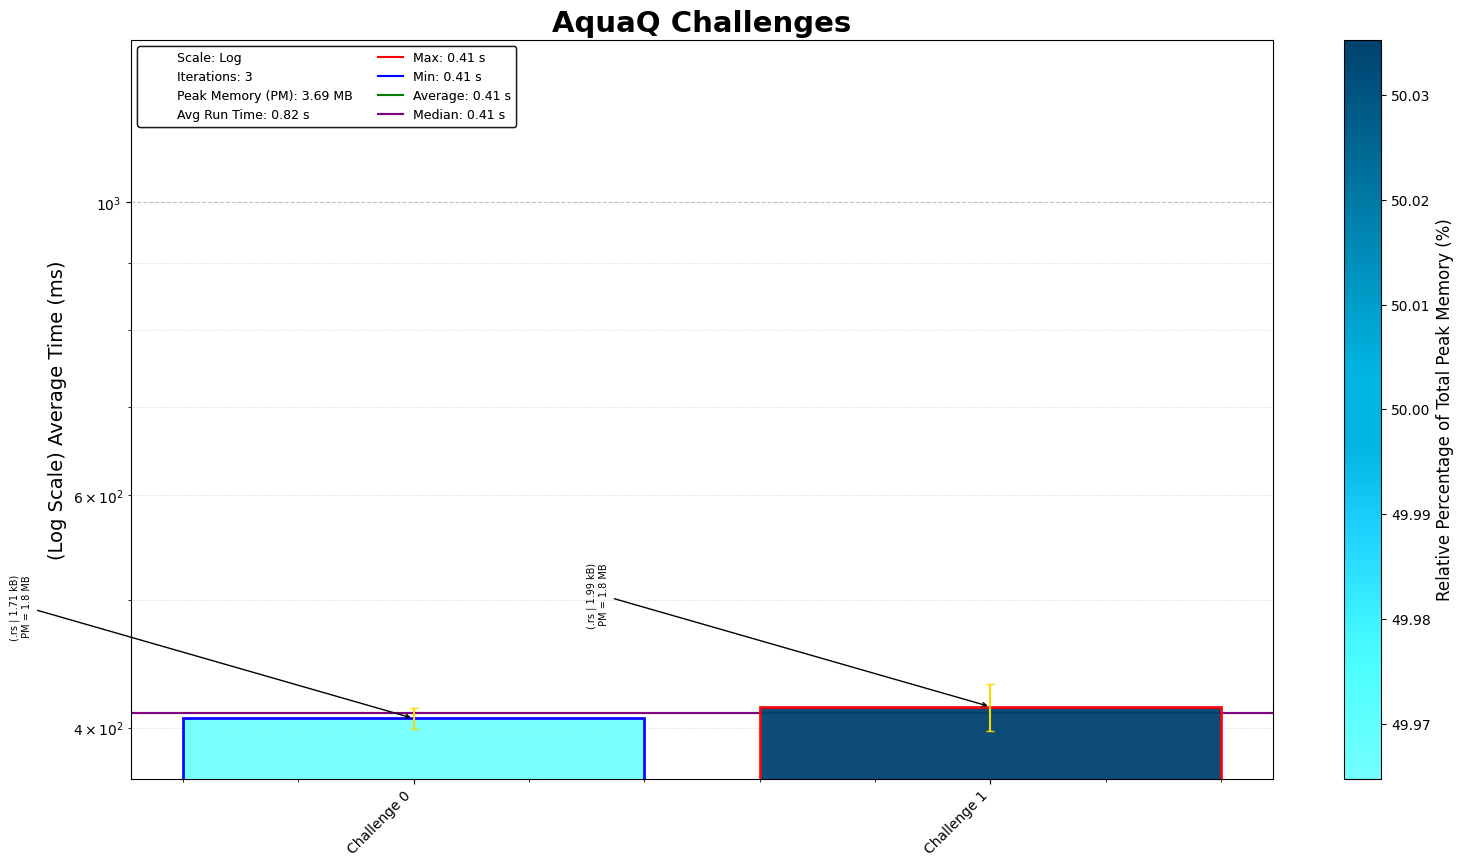
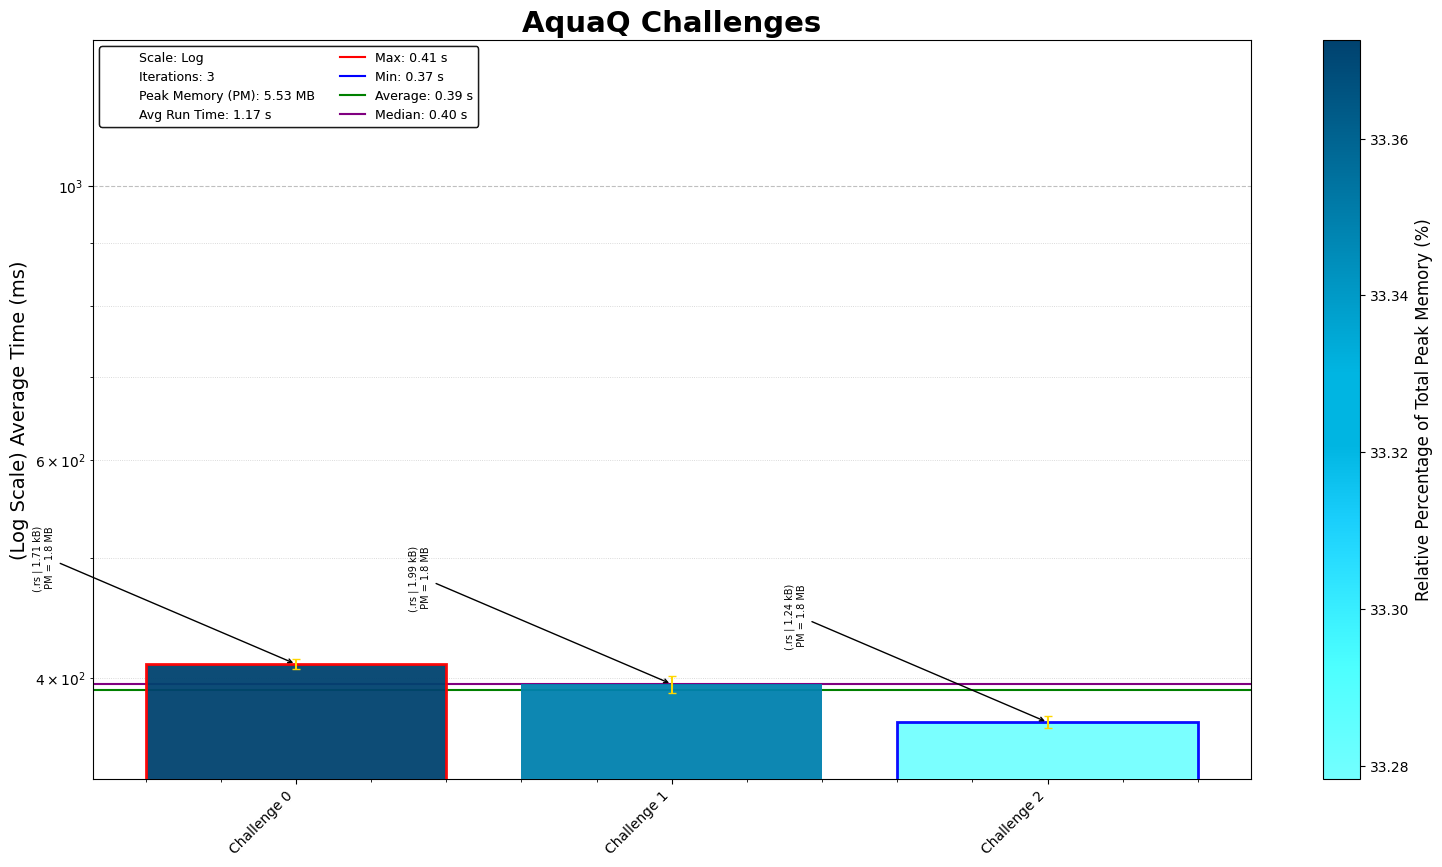
Eldervese Problem L and AquaQ Challenge 03

diff --git a/eldarverse/sep_25/Problem_L/eldarverse-sep-25-L.py b/eldarverse/sep_25/Problem_L/eldarverse-sep-25-L.py
@@ -13,75 +13,66 @@ input_path = Path(__file__).parent / input_file
 
 with input_path.open("r", encoding="utf-8") as f:
     data = f.read().splitlines()
-    subsequences = list(map(int, data[1:]))
+    test_cases = list(map(int, data[1:]))
+
+def count_subseq(result, target_str):
+    """Count subsequences equal to target_str in result."""
+    m = len(target_str)
+    dp = [0] * (m + 1)
+    dp[0] = 1
+    for ch in result:
+        for j in range(m - 1, -1, -1):
+            if ch == target_str[j]:
+                dp[j + 1] += dp[j]
+    return dp[m]
+
+def construct_string(init_k, target_str, min_base=20, max_base=1000):
+    the_best_output = None
+    m = len(target_str)
+
+    for BASE in range(min_base, max_base):
+        K = init_k
+        values = []
+        while K > 0:
+            values.append(K % BASE)
+            K //= BASE
+
+        result = []
+
+        # D0: prefix (all but last char), then last-char repeated n (if present)
+        n = values.pop(0) if values else None
+        result += list(target_str[:-1])
+        if n is not None:
+            result += [target_str[-1]] * n
+
+        # D1 .. D(m-2): for idx=1..m-2 append the appropriate left-to-right block
+        # (this is the crucial loop: range stops at m-2 inclusive)
+        for idx in range(1, m - 1):
+            n = values.pop(0) if values else None
+            # suffix of length idx before the last char, left-to-right
+            suffix = target_str[-(idx + 1):-1]
+            for ch in suffix:
+                result += [ch] * (BASE - 1)
+            if n is not None:
+                result += [target_str[-1]] * n
+
+        # verify
+        total = count_subseq(result, target_str)
+        if total == init_k:
+            output = ''.join(result)
+            if the_best_output is None or len(output) < len(the_best_output):
+                the_best_output = output
+
+    return the_best_output if the_best_output is not None else ""
 
 solutions = []
-TARGET_STR = "GEOLYMP"
-MAX_STR_LEN = 1000
-
-def construct_string(K: int) -> str:
-    letters = list("GEOLYMP")
-    str_len = len(letters)
-    counts = [1] * str_len  # factors for G,E,O,L,Y,M,P
-
-    # Greedily distribute factors to keep counts balanced
-    while math.prod(counts) < K:
-        # choose index with minimal count
-        i = min(range(str_len), key=lambda idx: counts[idx])
-        counts[i] += 1
-
-    # Build string
-    result = "".join(letter * cnt for letter, cnt in zip(letters, counts))
-
-    # Verify the solution
-    assert math.prod(counts) == K, f"Product {math.prod(counts)} != {K}"
-    assert len(result) <= 1000, f"String too long: {len(result)}"
-
-    return result
-
-def construct_string(K):
-    # Use the base conversion method which guarantees the length constraint
-    # Convert K to base-N where N is chosen to keep the sum of digits ≤ 994
-    
-    # We need 7 digits, so choose base such that 7 * (base-1) ≤ 994
-    # This means base ≤ 994/7 + 1 ≈ 143
-    base = 142  # Safe choice
-    
-    digits = []
-    n = K
-    for i in range(7):
-        digits.append(n % base)
-        n //= base
-    
-    # If there's any remainder, add it to the last digit
-    if n > 0:
-        digits[-1] += n * base
-    
-    # Reverse to get the correct order
-    digits = digits[::-1]
-    
-    # Ensure no digit is 0 (we need at least 1 of each character)
-    for i in range(7):
-        if digits[i] == 0:
-            digits[i] = 1
-    
-    # Build the string
-    target = "GEOLYMP"
-    parts = []
-    for i, char in enumerate(target):
-        parts.append(char * digits[i])
-        if i < len(target) - 1:
-            parts.append('X')
-    return ''.join(parts)
-
-for case_no, sub_val in enumerate(subsequences, 1):
-    full_string = construct_string(sub_val)
-    solutions.append(f"Case #{case_no}: {full_string}")
-    # print(solutions[-1], len(full_string))
-    print(case_no, len(full_string))
+for case_no, case_k in enumerate(test_cases, start=1):
+    best_string = construct_string(case_k, "GEOLYMP")
+    solutions.append(f"Case #{case_no}: {best_string}")
+    # print(solutions[-1])
+    print(case_no, case_k, len(best_string))
 
 output_file = "problem-sep-25-long-L-output.txt"
 output_path = Path(__file__).parent / output_file
 with output_path.open("w", encoding="utf-8") as f:
     f.write("\n".join(solutions))
-

diff --git a/AquaQ/src/bin/AquaQ_02.rs b/AquaQ/src/bin/AquaQ_02.rs
@@ -1,0 +1,43 @@
+/* AquaQ Puzzles - Puzzle 2
+Solution Started: September 9, 2025,
+Puzzle Link: https://challenges.aquaq.co.uk/challenge/2
+Solution by: Abbas Moosajee
+Brief: [One is all you need] */
+
+use std::{fs, env, error::Error};
+
+fn main() -> Result<(), Box<dyn Error>> {
+
+    // Get the first command-line argument, or default to "Lang06_input.txt"
+    let args: Vec<String> = env::args().collect();
+    let file_path = if args.len() > 1 {
+        &args[1]  // Use the provided file path
+    } else {
+        "inputs/challenge_02.txt"  // Default file
+    };
+
+    let contents: String = fs::read_to_string(file_path)?;
+
+    // Step 1: Collect bytes into Vec<i32>
+    let data: Vec<i32> = contents
+        .split_whitespace()
+        .map(|s| s.parse::<i32>().unwrap())
+        .collect();
+
+    // Step 2: Process like Python
+    let mut num_list: Vec<i32> = Vec::new();
+
+    for value in data.iter() {
+        if let Some(pos) = num_list.iter().position(|&x| x == *value) {
+            // truncate everything from pos to end
+            num_list.truncate(pos);
+        }
+        num_list.push(*value);
+        // println!("{:?}", num_list);
+    }
+
+
+    let sum: i32 = num_list.iter().sum();
+    println!("Final Sum: {}", sum);
+    Ok(())
+}

diff --git a/README.md b/README.md
@@ -16,8 +16,8 @@ This project contains a Python script (`CreateScript.py`) that can be used to cr
 | [i18n Challenges](https://i18n-puzzles.com/)             | 20 Puzzles| [Link](/i18n)   | 20      | 20        | ✅ Done  |
 | [Synacor Challenge](https://github.com/Aneurysm9/vm_challenge/tree/main)(archive)      | Virtual Machine | [Link](/synacor) | 1       | 1         | ✅ Done  |
 | [Marches & Gnatts](https://www.cryptopals.com/)      | Challenges | [Link](/MNG) | >15       | 16         | Active  |
-| [Cryptopals](https://mng.quest/)      | Challenges | [Link](https://github.com/abbasmoosajee07/cryptopals) | 66       | 1         | Ongoing  |
-| [Eldarverse](https://www.eldarverse.com/)      | Challenges | [Link](/eldarverse/sep_25/) | 14       | 8         | Ongoing  |
-| [AquaQ Challenges](https://challenges.aquaq.co.uk/)      | Challenges | [Link](/AquaQ/) | 41       | 2         | Ongoing  |
+| [Cryptopals](https://mng.quest/)      | Challenges | [Link](https://github.com/abbasmoosajee07/cryptopals) | 66       | 9         | Ongoing  |
+| [Eldarverse](https://www.eldarverse.com/)      | Challenges | [Link](/eldarverse/sep_25/) | 14       | 14         | Done(sep-25)  |
+| [AquaQ Challenges](https://challenges.aquaq.co.uk/)      | Challenges | [Link](/AquaQ/) | 41       | 3         | Ongoing  |
 -------------
 
